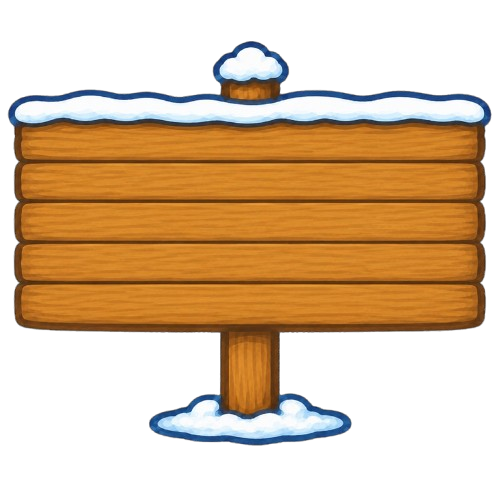
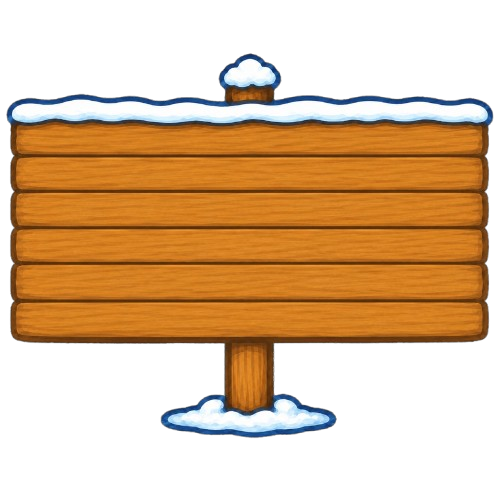
Fix VO path and image in Signboard math game

Changed region(s): [[0.0, 0.06, 0.99, 0.9]]

diff --git a/lib/games_ui_layer/arctic_numberland/addition_subtraction_signboard.dart b/lib/games_ui_layer/arctic_numberland/addition_subtraction_signboard.dart
@@ -55,7 +55,7 @@ class _SignboardMathGameState extends State<SignboardMathGame>
     'assets/images/objects/arctic/winter_hat.png',
   ];
 
-  static const String _audioBase = 'assets/audio/arctic_numberland/';
+  static const String _audioBase = 'assets/audio/arctic_numberland';
   static const String _audioIntro = '$_audioBase/signboard_intro.wav';
   static const String _audioRoundPromptAdd = '$_audioBase/signboard_add_instruction.wav';
   static const String _audioRoundPromptSub = '$_audioBase/signboard_sub_instruction.wav';
@@ -480,8 +480,8 @@ class _SignboardMathGameState extends State<SignboardMathGame>
 
   // ── Signboard scene ──────────────────────────────────────────────────────
   Widget _buildSignboardScene(double w, double h) {
-    final boardWidth = (w * 0.50);
-    final boardHeight = h * 0.80;
+    final boardWidth = (w * 0.55);
+    final boardHeight = h * 0.85;
     final itemSize = (h * 0.15);
 
     return Align(
@@ -520,7 +520,7 @@ class _SignboardMathGameState extends State<SignboardMathGame>
               ),
             ),
             Positioned(
-              bottom: boardHeight * 0.35,
+              bottom: boardHeight * 0.30,
               right: boardWidth * 0.06,
               child: Container(
                 padding: const EdgeInsets.symmetric(horizontal: 12, vertical: 6),